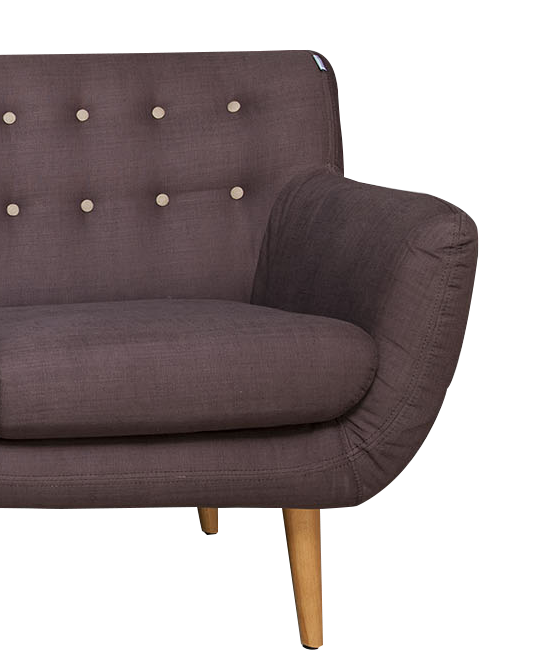
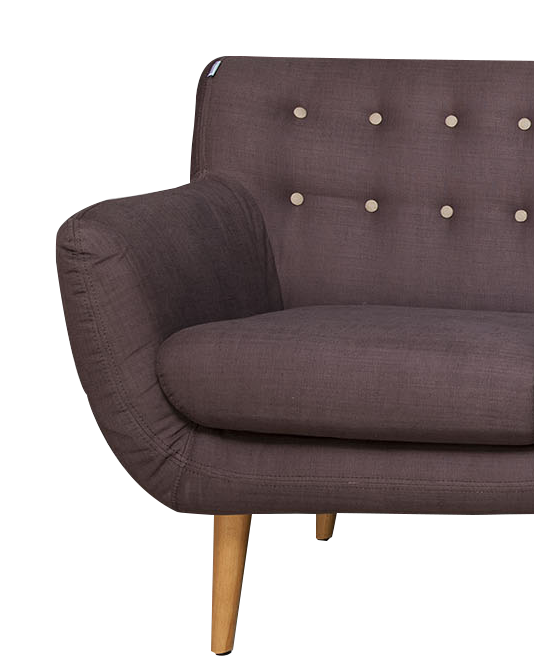
TVF - Enough for tonight

diff --git a/tvf_proto/index.html b/tvf_proto/index.html
@@ -80,7 +80,7 @@
 		<!-- Furniture -->
 		<div class="container-fluid" style="margin:0px 0px 0px 0px; padding: 0px 0px 0px 0px;">
 			<section id="furniture" style="margin:0px 0px 0px 0px; padding: 0px 0px 0px 0px;">
-				<div class="jumbotron text-left text-white my-0" style="background-color: #1A8B55; background-image: url(images/vin_bkg2.png); background-size: 100%; background-repeat: no-repeat; background-position: left center, left center; border-radius:0px;"
+				<div class="jumbotron text-left text-white my-0" style="background-color: #1A8B55; background-image: url(images/sofa.png), url(images/fabric.png); background-size: 75vh, 100%; background-repeat: no-repeat, repeat-y; background-position: left center, left center; border-radius:0px;"
 					 data-paroller-factor="0.5">
 					<h1 class="display-1 py-0" style="color: #FFFFFF; text-shadow: 2px 2px 4px #000000;">Vintage Furniture</h1>
 					<p class="display-3 py-0" style="color: #FFFFFF; text-shadow: 2px 2px 4px #000000;">Find an incredible</p>
@@ -106,7 +106,7 @@
 		<!-- Electronics -->
 		<div class="container-fluid" style="margin:0px 0px 0px 0px; padding: 0px 0px 0px 0px;">
 			<section id="electronics" style="margin:0px 0px 0px 0px; padding: 0px 0px 0px 0px; background-image: url(images/vinyl.png)">
-				<div class="jumbotron text-left my-0" style="background-color: #551A8B; background-image: url(images/vin_bkg2.png); background-size: 100%; background-repeat: no-repeat; background-position: right center, right center; border-radius:0px;"
+				<div class="jumbotron text-left my-0" style="background-color: #551A8B; background-image: url(images/vin_bkg2.png); background-size: 100%; background-repeat: repeat-y; background-position: right center, right center; border-radius:0px;"
 					 data-paroller-factor="0.5">
 					<h1 class="display-1 py-0" style="color: #FFFFFF; text-shadow: 2px 2px 4px #000000;">Classic Electronics</h1>
 					<p class="display-3 py-0" style="color: #FFFFFF; text-shadow: 2px 2px 4px #000000;">An ever-rotating collection</p>
@@ -133,7 +133,7 @@
 		<!-- Clothes -->
 		<div class="container-fluid" style="margin:0px 0px 0px 0px; padding: 0px 0px 0px 0px;">
 			<section id="clothing" style="margin:0px 0px 0px 0px; padding: 0px 0px 0px 0px; background-image: url(images/vinyl.png)">
-				<div class="jumbotron text-left my-0" style="background-color: #8B1A55; background-image: url(images/vin_bkg2.png); background-size: 100%; background-repeat: no-repeat; background-position: left center, left center; border-radius:0px;"
+				<div class="jumbotron text-left my-0" style="background-color: #8B1A55; background-image: url(images/fabric2.png); background-size: 100%; background-repeat: repeat-y; background-position: left center, left center; border-radius:0px;"
 					 data-paroller-factor="0.5">
 					<h1 class="display-1 py-0" style="color: #FFFFFF; text-shadow: 2px 2px 4px #000000;">Retro Clothes</h1>
 					<p class="display-3 py-0" style="color: #FFFFFF; text-shadow: 2px 2px 4px #000000;">Dress like your mom</p>
@@ -160,7 +160,7 @@
 		<!-- About -->
 		<div class="container-fluid" style="margin:0px 0px 0px 0px; padding: 0px 0px 0px 0px;">
 			<section id="about" style="margin:0px 0px 0px 0px; padding: 0px 0px 0px 0px;" >
-			<div class="jumbotron text-left my-0" style="background-color: #1A558B; background-image: url(images/vin_bkg2.png); background-size: 100%; background-repeat: no-repeat; background-position: left center, left center; border-radius:0px;"
+			<div class="jumbotron text-left my-0" style="background-color: #1A558B; background-image: url(images/fabric3.png); background-size: 100%; background-repeat: repeat-y; background-position: left center, left center; border-radius:0px;"
 					 data-paroller-factor="0.5">
 					<h1 class="display-1 py-0 text-black">About Us</h1>
 					<p class="display-3 py-0 text-black">Lorem ipsum dolor</p>
@@ -192,21 +192,21 @@
 		<h3>People LOVE Us!</h3>
 		  <div class="carousel-inner" role="listbox">
 			<div class="carousel-item active">
-			  <img class="d-block img-fluid" src="http://via.placeholder.com/1x150" alt="First slide">
+			  <img class="d-block img-fluid" src="images/spacer.png" alt="First slide">
 			  <div class="carousel-caption d-none d-md-block">
 				<h3>"<em>TVF</em> is an amazing place!"</h3>
 				<p><em>Kevin Marcos Laredo - 7/27/2016</em></p>
 			  </div>
 			</div>
 			<div class="carousel-item">
-			<img class="d-block img-fluid" src="http://via.placeholder.com/1x150" alt="First slide">
+			<img class="d-block img-fluid" src="images/spacer.png" alt="First slide">
 			  <div class="carousel-caption d-none d-md-block">
 				<h3>"The staff is ALWAYS helpful and nice!"</h3>
 				<p><em>Rob Colwell - 4/1/2017</em></p>
 			  </div>
 			</div>
 			<div class="carousel-item">
-			<img class="d-block img-fluid" src="http://via.placeholder.com/1x150" alt="First slide">
+			<img class="d-block img-fluid" src="images/spacer.png" alt="First slide">
 			  <div class="carousel-caption d-none d-md-block">
 				<h3>"Super nice place and some great vintage products"</h3>
 				<p><em>Jose Mercado - 3/29/2017</em></p>
@@ -229,7 +229,7 @@
 		<script src="https://maps.googleapis.com/maps/api/js?key=AIzaSyC0M2I7f7LvMzDuh-Bx7mrE4p4V_wlV04c&callback=myMap"></script>
 		
 		<!-- Social Media -->		
-		<div class="container-fluid text-center text-white" style="padding: 80px 120px; background-color:#242424; background-image: url(images/vinyl.png); background-size: 75vh;  background-repeat: no-repeat; background-position: right center, right center;">
+		<div class="container-fluid text-center text-white" style="padding: 80px 120px; background-color:#242424; background-image: url(images/vinyl.png); background-size: 75vh;  background-repeat: no-repeat; background-position: right center, right center;" data-paroller-factor="0.5">
 			<h1>Lorem ipsum dolor</h1><br /><br />
 			<p>Lorem ipsum dolor sit amet, consectetur adipiscing elit, sed do eiusmod tempor incididunt ut labore et dolore magna aliqua. Ut enim ad minim veniam, 
 			<em>quis nostrud exercitation ullamco laboris nisi ut aliquip ex ea commodo consequat.</em> 

diff --git a/tvf_proto/jquery.paroller.js b/tvf_proto/jquery.paroller.js
@@ -10,7 +10,7 @@
     var elem = $('[data-paroller-factor]');
     var setDirection = {
         bgVertical: function (elem, bgOffset) {
-            return elem.css({'background-position': 'center ' + -bgOffset + 'px'});
+            return elem.css({'background-position': 'right ' + -bgOffset + 'px'});
         },
         bgHorizontal: function (elem, bgOffset) {
             return elem.css({'background-position': -bgOffset + 'px' + ' center'});

diff --git a/tvf_proto/style.css b/tvf_proto/style.css
@@ -57,6 +57,7 @@ nav {
 	border: 10px solid transparent;
 	margin-bottom: 25px;
 	opacity: 0.9;
+	/*box-shadow: 10px 10px 10px;*/
 }
 
 .social:hover {
